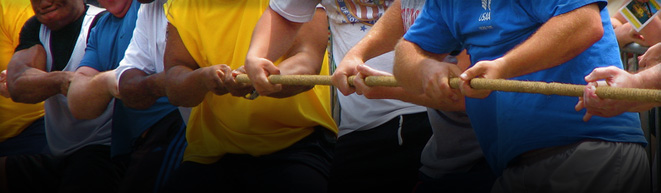
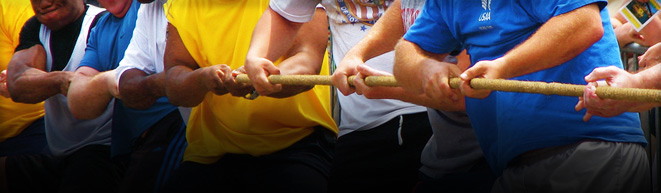
User, Dev, About Pages completed. Images for all sections. Edit to footer; report-a-bug link was incorrectly linked.

diff --git a/website/proveit_styles.css b/website/proveit_styles.css
@@ -200,13 +200,13 @@ div#mainPic.reportabug{
 /*** Picture Divs for USERS, DEVELOPERS, and ABOUT */
 
 a.pic940 {
-	background-image: url(img/features_image_link.jpg);
 	display: block;
 	height: 63px; width: 930px;
 	margin: 0 10px 10px 10px; padding: 130px 0 0 10px;
 	font-weight: bold;
 	font-size: 48px;
 	text-transform: uppercase;
+	text-shadow: 1px 1px 3px #000;
 	color: #fddb00;
 	} 
 
@@ -217,6 +217,7 @@ a.pic465 {
 	font-weight: bold;
 	font-size: 48px;
 	text-transform: uppercase;
+	text-shadow: 1px 1px 3px #000;
 	color: #fddb00;
 	} 
 

diff --git a/website/developers.php b/website/developers.php
@@ -1,44 +1,25 @@
 <?php
 
-$page = 'About';
+$page = 'Developers';
 
 include_once 'header.php';
 
 ?>
 			<!-- Main Content Table -->
 
-				<div id="leadInPic"><img src="img/developers_leadIn.jpg" alt="about us banner" /></div>
+				<div id="leadInPic"><img src="img/developers_leadIn.jpg" alt="developers banner" /></div>
 
-				<table width="960" border="0" cellspacing="0" cellpadding="0" style="background-color: #2682c7; ">
+				<table border="0" cellspacing="0" cellpadding="0" style="background-color: #2682c7; ">
 					<tr>
 						<td>
-							<div id="940pic" class="any">
-								<a href="documentation.php">
-									<img src="img/documentation_image_link.jpg">
-								</a>
-								<h1> Documentation </h1>
-							</div>
-						
-							 <div id="465pic" class="left"> 
-								<a href="#"> 
-									<img  src="img/gCode_image_link.jpg"> 
-								</a> 
-								<h1>Google Code</h1>
-							</div>
-							
-							 <div id="465pic" class="right"> 
-								<a href="#"> 
-									<img  src="img/wiki_image_link.jpg"> 
-								</a> 
-								<h1>Wiki</h1>
-							</div> 
-								
-							<div id="mainBody"> 
-								<p class="leadIn">If there is any text, it will go here.</p>
-								
-							</div><!-- end #mainBody -->
+							<a class="pic940" style="background-image: url(img/documentation_image_link.jpg);" href="documentation.php">Documentation</a>
 						</td>
-						
+					</tr>
+					<tr>
+						<td>
+							<a class="pic465 left" style="background-image: url(img/gCode_image_link.jpg);" href="#">Google Code</a>
+							<a class="pic465 right" style="background-image: url(img/wiki_image_link.jpg);" href="#">Wiki</a>
+						</td>
 					</tr>
 				</table> 
 

diff --git a/website/about.php b/website/about.php
@@ -7,31 +7,14 @@ include_once 'header.php';
 ?>
 			<!-- Main Content Table -->
 
-				<div id="leadInPic"><img src="img/about_leadIn.jpg" alt="about us banner" /></div>
+					<div id="leadInPic"><img src="img/about_leadIn.jpg" alt="developers banner" /></div>
 
-				<table width="960" border="0" cellspacing="0" cellpadding="0" style="background-color: #2682c7; ">
+				<table border="0" cellspacing="0" cellpadding="0" style="background-color: #2682c7; ">
 					<tr>
 						<td>
-							 <div id="465pic" class="left"> 
-								<a href="#"> 
-									<img  src="img/research_image_link.jpg"> 
-								</a> 
-								<h1>Research</h1>
-							</div>
-							
-							 <div id="465pic" class="right"> 
-								<a href="#"> 
-									<img  src="img/theteam_image_link.jpg"> 
-								</a> 
-								<h1>The Team</h1>
-							</div> 
-								
-							<div id="mainBody"> 
-								<p class="leadIn"> </p>
-								
-							</div><!-- end #mainBody -->
+							<a class="pic465 left" style="background-image: url(img/theteam_image_link.jpg);" href="theTeam.php">The Team</a>
+							<a class="pic465 right" style="background-image: url(img/research_image_link.jpg);" href="research.php">Research </a>
 						</td>
-						
 					</tr>
 				</table> 
 

diff --git a/website/users.php b/website/users.php
@@ -1,6 +1,6 @@
 <?php
 
-$page = 'About';
+$page = 'Users';
 
 include_once 'header.php';
 
@@ -12,7 +12,7 @@ include_once 'header.php';
 				<table border="0" cellspacing="0" cellpadding="0" style="background-color: #2682c7; ">
 					<tr>
 						<td>
-							<a class="pic940" href="features.php">Features</a>
+							<a class="pic940" 	style="background-image: url(img/features_image_link.jpg);" href="features.php">Features</a>
 						</td>
 					</tr>
 					<tr>
@@ -24,7 +24,7 @@ include_once 'header.php';
 					<tr>
 						<td>
 							<a class="pic465 left" style="background-image: url(img/reportabug_image_link.jpg);" href="reportabug.php">Report-a-Bug</a>
-							<a class="pic465 right" style="background-image: url(img/reportabug_image_link.jpg);" href="reportabug.php">Report-a-Bug</a>
+							<a class="pic465 right" style="background-image: url(img/demo_image_link.jpg);" href="demo.php">Demo</a>
 						</td>
 					</tr>
 				</table> 

diff --git a/website/footer.php b/website/footer.php
@@ -15,7 +15,7 @@
 									<a href="screenshots.php" class="footerNavLink <?php if($page == 'Screenshots') echo ' selected'; ?>">Screenshots</a> -
 									<a href="tutorials.php" class="footerNavLink<?php if($page == 'Tutorials') echo ' selected'; ?>">Tutorials</a> -
 									<a href="http://code.google.com/p/proveit-js/issues/entry" class="footerNavLink">Report a Bug</a> -
-				                                        <a href="demo.php" class="footerNavLink<?php if($page == 'Demo') echo ' selected'; ?>">Demo</a>
+				                                        <a href="reportabug.php" class="footerNavLink<?php if($page == 'Report-a-Bug') echo ' selected'; ?>">Demo</a>
 									
 									<br/><span style="color:#FFF; padding-right:10px;">DEVELOPERS </span>
 									<a href="documentation.php" class="footerNavLink <?php if($page == 'Documentation') echo ' selected'; ?>">Documentation</a> -			
